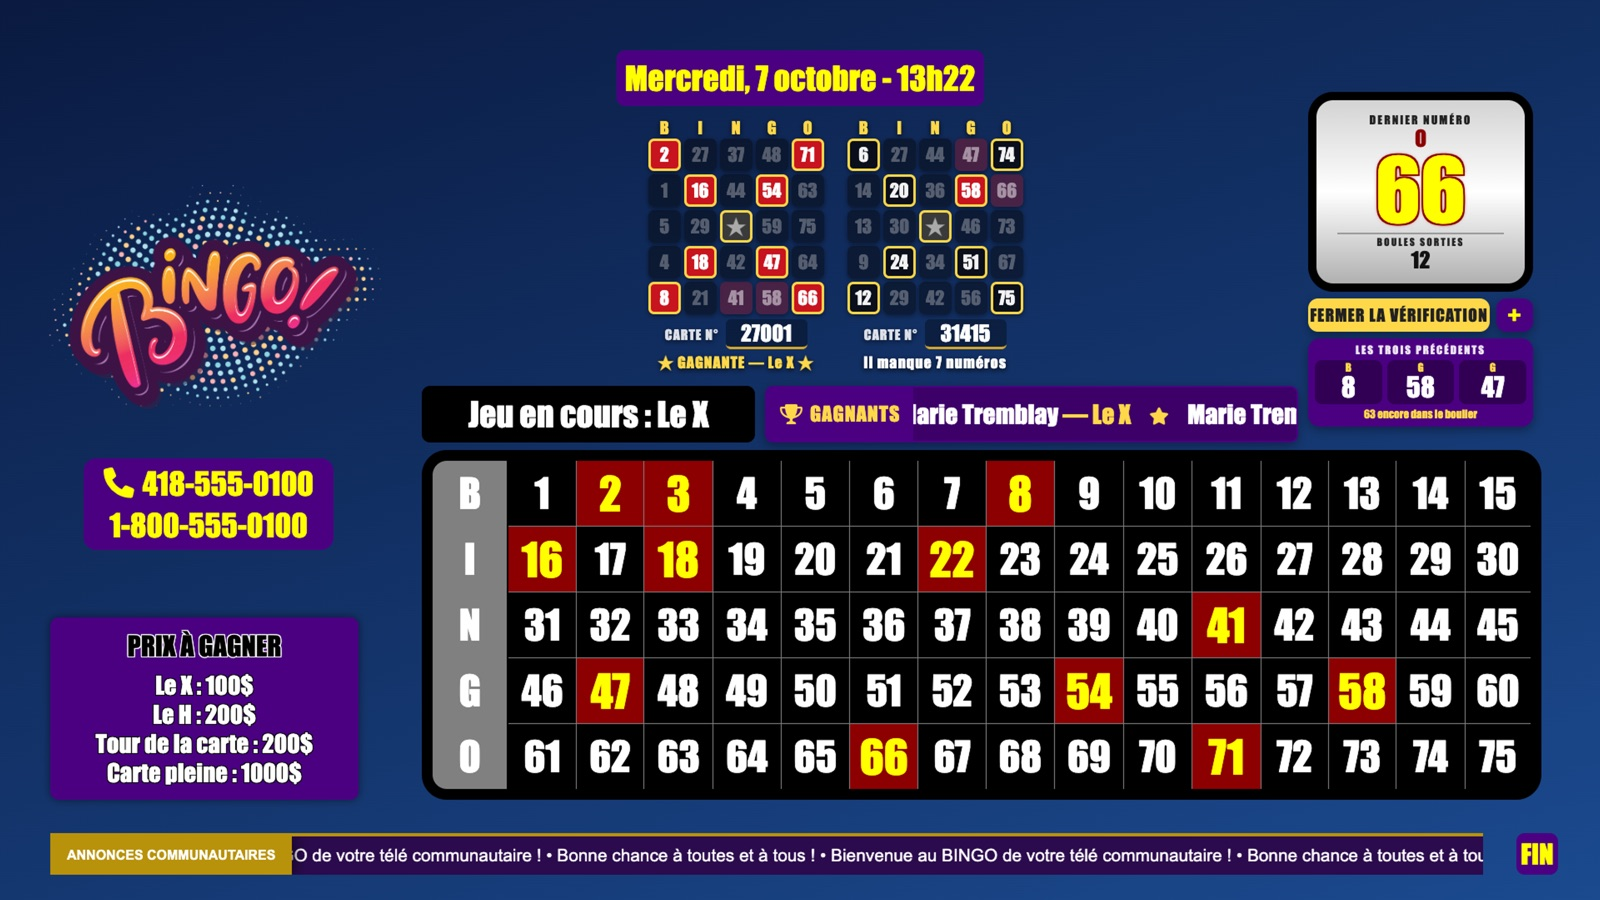
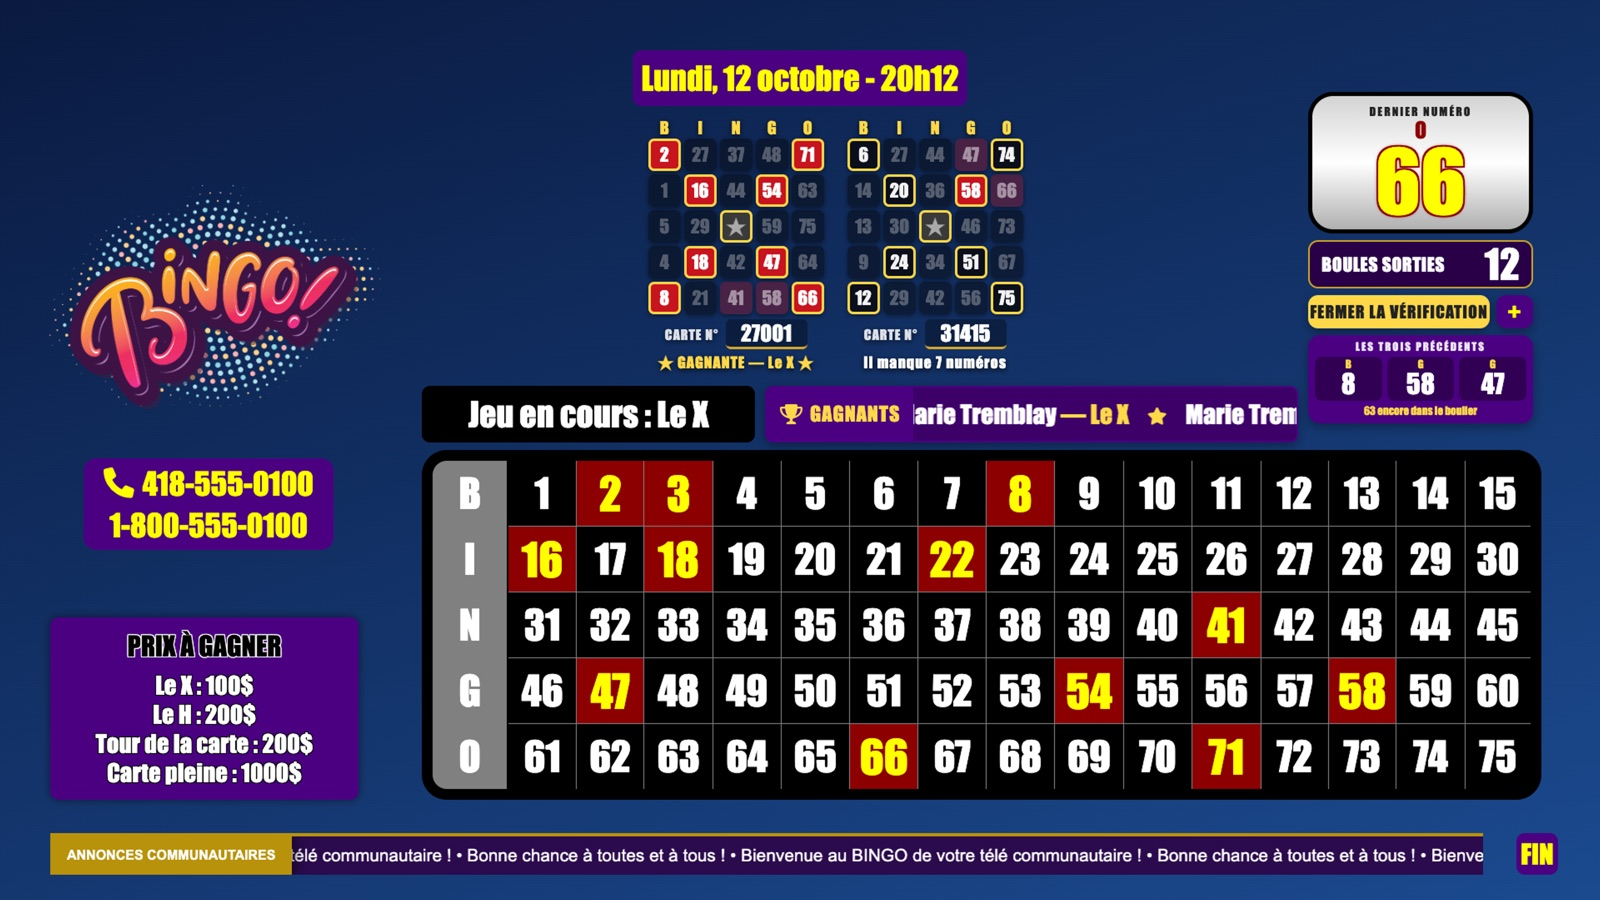
Version 2.34 : nombre de boules sorties en gros dans son propre bloc ; nouvelles captures

Changed region(s): [[0.5625, 0.0933, 0.9688, 0.4978], [0.1875, 0.9333, 0.9375, 0.9644], [0.375, 0.0622, 0.625, 0.1244]]

diff --git a/index.html b/index.html
@@ -48,7 +48,7 @@
         À l'écran, par contre, <strong>ton bingo a l'air d'une vraie émission</strong> —
         et une carte gagnante se <strong>vérifie en quelques secondes, en direct</strong>.
       </p>
-      <span class="pastille">Version d'essai 2.33 · Mac et PC (Windows)</span>
+      <span class="pastille">Version d'essai 2.34 · Mac et PC (Windows)</span>
       <span class="pastille pastille-arrow">Compatible avec les cartes de bingo papier Arrow Games</span>
       <div class="boutons">
         <a class="bouton bouton-fort" href="#telecharger">Télécharger gratuitement</a>
@@ -65,7 +65,7 @@
       </a>
 
       <figure class="capture-heros">
-        <img src="images/jeu.jpg?v=232" width="1600" height="900"
+        <img src="images/jeu.jpg?v=234" width="1600" height="900"
              alt="L'écran d'antenne : le tableau de 1 à 75 avec les numéros sortis en rouge, le dernier numéro en grand,
                   les trois précédents, la forme en cours, les prix à gagner, les numéros de téléphone,
                   le bandeau d'annonces et la zone bleue où s'incruste l'animateur.">
@@ -80,7 +80,7 @@
         <li>
           <svg viewBox="0 0 32 32"><rect x="3" y="6" width="26" height="20" rx="2"/><path d="M3 12h26M9 6v20M15 6v20M21 6v20"/></svg>
           <strong>Le tableau de 1 à 75</strong>
-          <span>Un clic sur chaque numéro qui sort du boulier. Le dernier numéro s'affiche en grand, avec sa lettre, les trois précédents et le nombre de boules encore dans le boulier.</span>
+          <span>Un clic sur chaque numéro qui sort du boulier. Le dernier numéro s'affiche en grand, avec sa lettre, le nombre de boules sorties (lisible depuis le studio), les trois précédents et ce qui reste dans le boulier.</span>
         </li>
         <li>
           <svg viewBox="0 0 32 32"><rect x="5" y="4" width="22" height="24" rx="2"/><path d="M10 16l4 4 8-9"/></svg>
@@ -135,7 +135,7 @@
         d'activer ou d'enlever un numéro par erreur. On referme la vérification, et le jeu continue.
       </p>
       <figure class="apercu">
-        <img src="images/verification.jpg?v=232" width="1600" height="900" loading="lazy"
+        <img src="images/verification.jpg?v=234" width="1600" height="900" loading="lazy"
              alt="Deux cartes vérifiées à l'écran à la place de la zone de l'animateur : la carte 27001,
                   gagnante pour le X, et la carte 31415, à qui il manque 7 numéros.">
         <figcaption>
@@ -147,7 +147,7 @@
         </figcaption>
       </figure>
       <figure class="apercu">
-        <img src="images/gagnant.jpg?v=232" width="1600" height="900" loading="lazy"
+        <img src="images/gagnant.jpg?v=234" width="1600" height="900" loading="lazy"
              alt="La fenêtre Félicitations : trophée, confettis, carte 27001, forme gagnée Le X,
                   champ Nom du gagnant, boutons Enregistrer et Fermer.">
         <figcaption>
@@ -250,12 +250,12 @@
         <a class="telechargement" href="https://github.com/bingoTCA/bingo-habillage-tv/releases/latest/download/BINGO-Habillage-TV-mac.dmg">
           <span class="tele-titre">Mac</span>
           <span class="tele-detail">Mac avec puce Apple (M1, M2, M3, M4) · macOS 13 Ventura ou plus récent</span>
-          <span class="tele-etat">Télécharger la version 2.33 · 164 Mo</span>
+          <span class="tele-etat">Télécharger la version 2.34 · 164 Mo</span>
         </a>
         <a class="telechargement" href="https://github.com/bingoTCA/bingo-habillage-tv/releases/latest/download/BINGO-Habillage-TV-windows.exe">
           <span class="tele-titre">PC (Windows)</span>
           <span class="tele-detail">Windows 10 ou 11 (64 bits) · nouveau : dis-moi comment ça se passe sur ton PC</span>
-          <span class="tele-etat">Télécharger la version 2.33 · 148 Mo</span>
+          <span class="tele-etat">Télécharger la version 2.34 · 148 Mo</span>
         </a>
       </div>
       <p class="petit" style="margin-top:18px">

diff --git a/telecharger/index.html b/telecharger/index.html
@@ -32,7 +32,7 @@
       <p class="accroche">
         Le logiciel est le même sur les deux systèmes. Prends celle qui correspond à l'ordinateur de ta régie.
       </p>
-      <p class="petit">Version <strong>2.33</strong> · version d'essai · compatible avec les cartes de bingo papier Arrow Games</p>
+      <p class="petit">Version <strong>2.34</strong> · version d'essai · compatible avec les cartes de bingo papier Arrow Games</p>
     </div>
   </section>
 
@@ -42,12 +42,12 @@
         <a class="telechargement" href="https://github.com/bingoTCA/bingo-habillage-tv/releases/latest/download/BINGO-Habillage-TV-mac.dmg">
           <span class="tele-titre">Mac</span>
           <span class="tele-detail">Mac avec puce Apple (M1, M2, M3, M4) · macOS 13 Ventura ou plus récent</span>
-          <span class="tele-etat">Télécharger la version 2.33 · 164 Mo</span>
+          <span class="tele-etat">Télécharger la version 2.34 · 164 Mo</span>
         </a>
         <a class="telechargement" href="https://github.com/bingoTCA/bingo-habillage-tv/releases/latest/download/BINGO-Habillage-TV-windows.exe">
           <span class="tele-titre">PC (Windows)</span>
           <span class="tele-detail">Windows 10 ou 11 (64 bits) · nouveau : dis-moi comment ça se passe sur ton PC</span>
-          <span class="tele-etat">Télécharger la version 2.33 · 148 Mo</span>
+          <span class="tele-etat">Télécharger la version 2.34 · 148 Mo</span>
         </a>
       </div>
 
